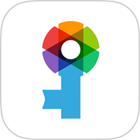
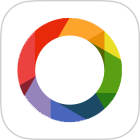
Keep Pics 앱 이름및 아이콘 변경

diff --git a/index.html b/index.html
@@ -96,7 +96,7 @@
               <div class="row appitem">
                     <div class="col-md-4"><img src="images/ico_keepics.png" class="appicon" /></div>
                     <div class="col-md-8">
-                      <h4>KeePics</h4>
+                      <h4>Keep Pics</h4>
                       <p>Secret album for your every photo/video.</p>
                       <a href="https://itunes.apple.com/app/apple-store/id1104556090?pt=100862818&ct=imgbase&mt=8">Download on the AppStore</a>
                     </div>
